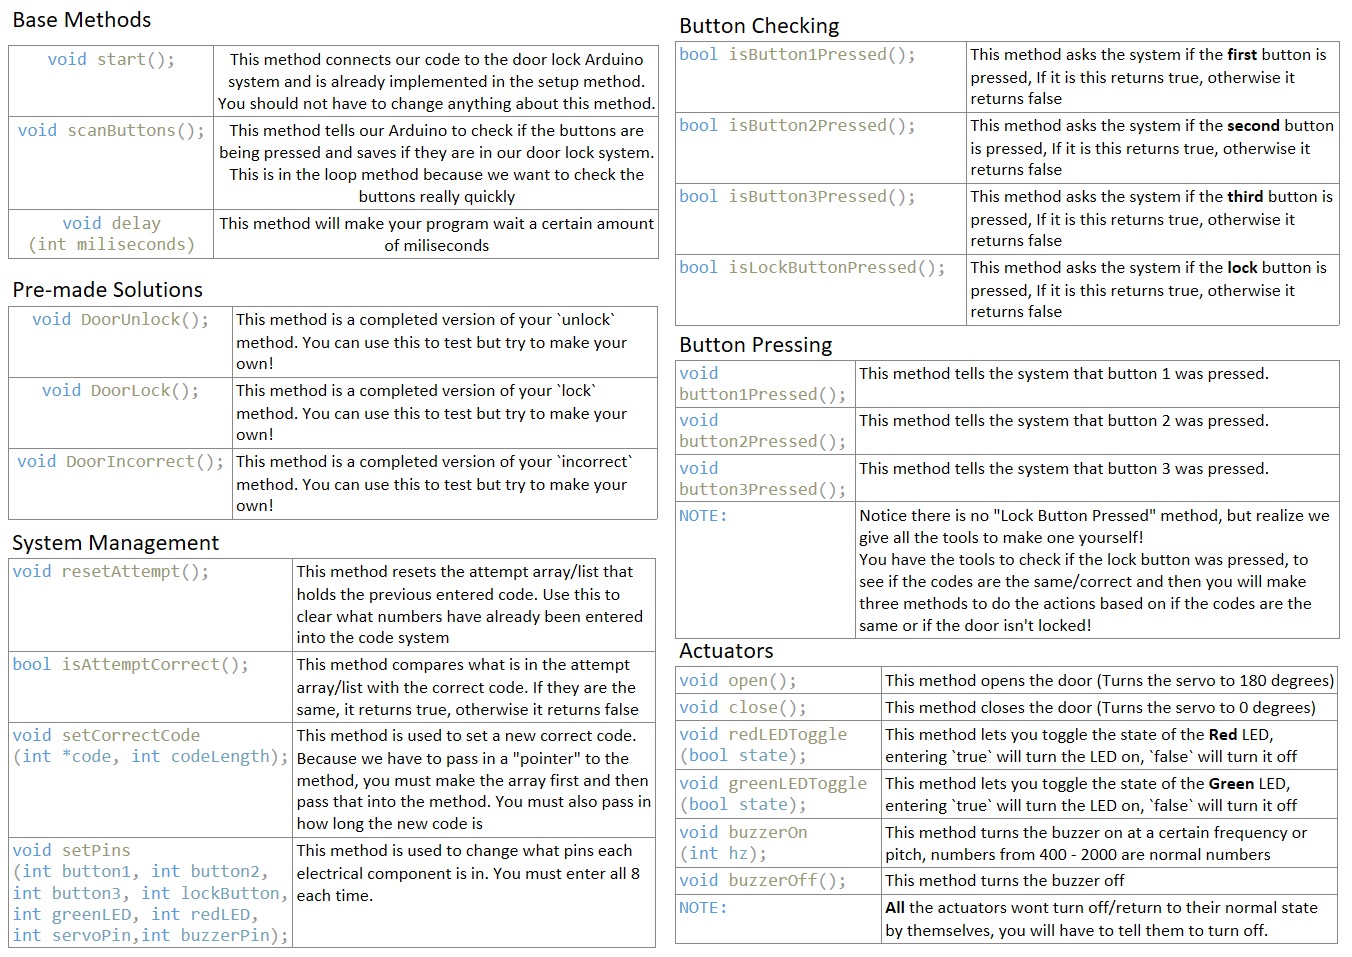
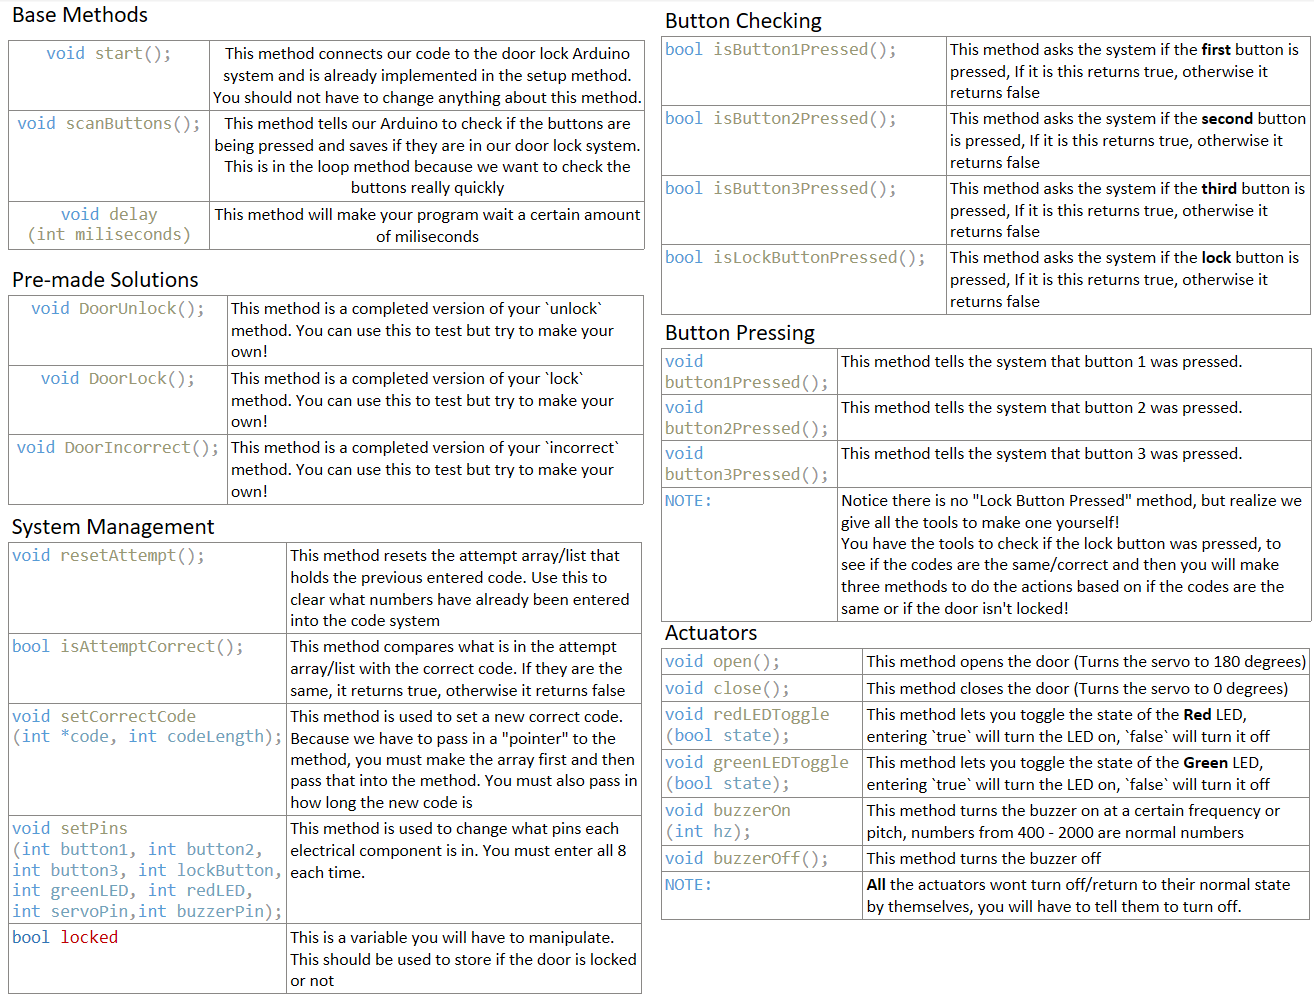
fixing the header file and adding an example of changing the pins for the arduino

Changed region(s): [[0.0, 0.0, 0.9985, 1.0]]

diff --git a/exampleMain/src/DoorLock.h b/exampleMain/src/DoorLock.h
@@ -146,8 +146,8 @@ namespace DoorLock {
     void resetAttempt();
     bool isAttemptCorrect();
 
-    void setCorrectCode(int* code);
-    void setPins(int* pins); // Assumes pins array has a fixed order of all pins
+    void setCorrectCode(int* code, int codeLength); 
+    void setPins(int button1, int button2, int button3, int lockButton, int greenLED, int redLED, int servoPin, int buzzerPin); // Assumes pins array has a fixed order of all pins
 
     void button1Pressed();
     void button2Pressed();

diff --git a/templateMain/src/DoorLock.h b/templateMain/src/DoorLock.h
@@ -146,8 +146,8 @@ namespace DoorLock {
     void resetAttempt();
     bool isAttemptCorrect();
 
-    void setCorrectCode(int* code);
-    void setPins(int* pins); // Assumes pins array has a fixed order of all pins
+    void setCorrectCode(int* code, int codeLength); 
+    void setPins(int button1, int button2, int button3, int lockButton, int greenLED, int redLED, int servoPin, int buzzerPin); // Assumes pins array has a fixed order of all pins
 
     void button1Pressed();
     void button2Pressed();
